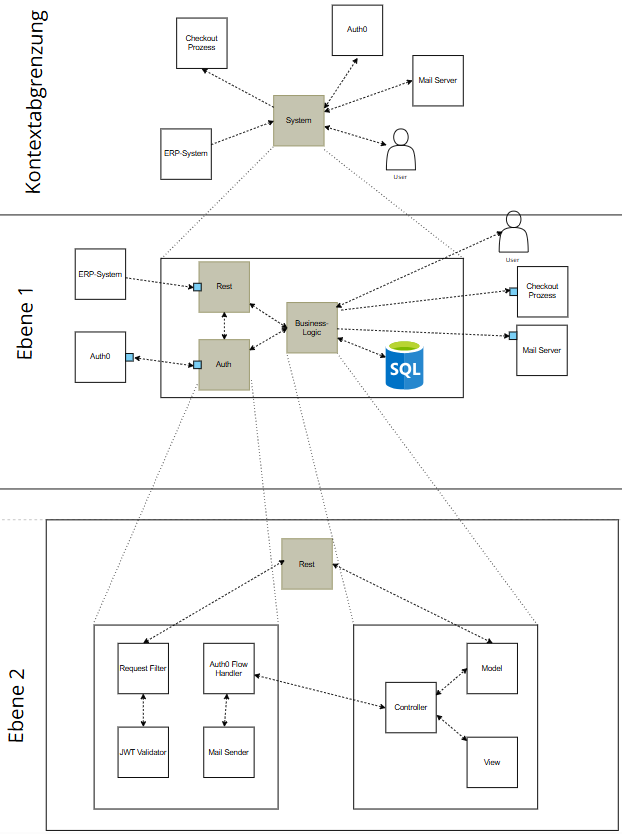
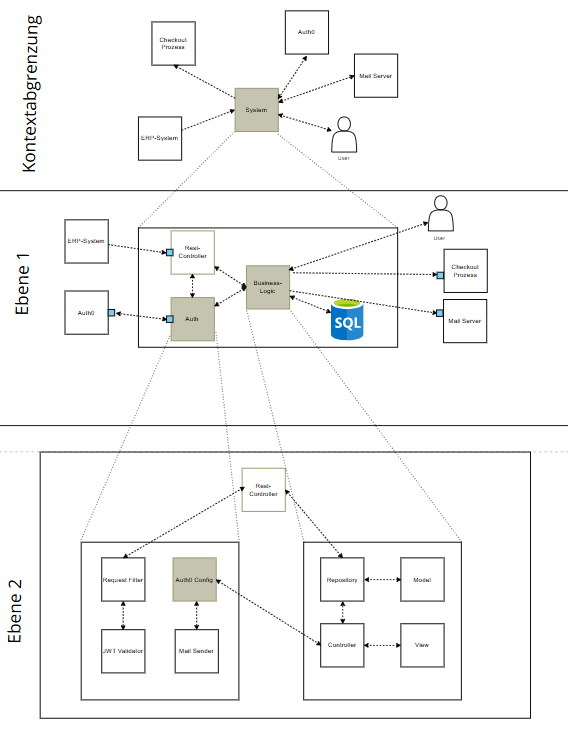
update documentation

diff --git a/arc42/documentation.tex b/arc42/documentation.tex
@@ -1,3 +1,4 @@
+
 % Options for packages loaded elsewhere
 \PassOptionsToPackage{unicode}{hyperref}
 \PassOptionsToPackage{hyphens}{url}
@@ -70,21 +71,26 @@
 \ifLuaTeX
   \usepackage{selnolig}  % disable illegal ligatures
 \fi
-\usepackage{fullpage} 
+\usepackage{fullpage}
 \usepackage{caption}
 \usepackage{float}
+
 
 \title{JEE Webshop Dokumentation}
 \author{Luca Malisan}
 \date{2025}
 
+
 \begin{document}
 \maketitle
 
+
 \section{}
+
 
 \hypertarget{section-introduction-and-goals}{%
 \section{Einführung und Ziele}\label{section-introduction-and-goals}}
+
 
 \hypertarget{_aufgabenstellung}{%
 \subsection{Aufgabenstellung}\label{_aufgabenstellung}}
@@ -97,141 +103,195 @@ Bei dem zu entwickelnden System handelt es sich um einen Webshop. Dieser besteht
 \item R: Rest-API zur Anbindung externer Systeme
 \end{itemize}
 
+
 Im Produktkatalog müssen Einträge per Volltextsuche gefunden werden können (K1). Zudem muss die Menge der Resultate nach Haupt- und Subkategorie eingeschränkt werden können (K2). Jeder Eintrag in der Liste muss Artikelbild, Titel, Preis, Rabatt und Verfügbarkeit anzeigen (K3). Pro Seite muss die Anzahl Einträge limitiert werden, Navigation zwischen den Seiten muss möglich sein (K4). Durch Klick auf einen Eintrag muss die Detailseite geöffnet werden. (K5)  \\ \\
 Auf der Detailansicht müssen zusätzlich zum Listeneintrag alle anderen Bilder und die Beschreibung sowie die verfügbare Anzahl angezeigt werden (D1). Zudem muss ein Button angezeigt werden, um den Artikel zum Warenkorb zu hinzufügen. Die Anzahl muss hierbei einstellbar sein (D2). \\ \\
 Der Warenkorb muss einen Überblick über alle hinzugefügten Artikel bieten (W1). Die Anzahl jedes Artikels muss angepasst werden können bzw. Artikel müssen entfernt werden können (W2). Der Gesamtpreis mit und ohne Mwst. sowie Rabatte müssen ebenfalls angezeigt werden (W3). \\ \\
 Benutzer müssen über einen Login-Button auf die Login-Page gelangen (L1). Unautorisierte Benutzer können alle Artikel ansehen, um etwas zum Warenkorb hinzuzufügen wird aber ein Login verlangt (L2). Das Login muss dabei in einem separaten Login-Formular stattfinden (L3). Die eingegebene E-Mail muss durch eine Bestätigungsmail validiert werden (L4). \\ \\
 Für das Hinzufügen, Updaten und Löschen von Artikeln und Kategorien muss eine REST-API zur Verfügung gestellt werden (R1). Diese darf nur von authentifizierten Maschinen angesteuert werden (R2).
 
+
 \hypertarget{_qualit_tsziele}{%
 \subsection{Qualitätsziele}\label{_qualit_tsziele}}
 
-Für eine gute Usability muss der Webshop in Tests mit Testkunden mindestens 90\% Zufriedenheit erreichen. Um eine optimale Performance zu garantieren, darf jede Operation im Webshop (Website laden, Artikel zum Warenkorb hinzufügen, ...) maximal 500ms dauern. Zudem müssen alle Methoden, die Business-Logik enthalten, mit mindestens einem Unit-Test abgesichert werden. \\ \\
-Unautorisierte Zugriffe müssen verhindert werden. Sowohl der Code als auch die verwendeten Dependencies dürfen keine Sicherheitslücken aufweisen. Für die Verständlichkeit des Codes müssen sämtliche Methoden und REST-Schnittstellen dokumentiert sein. Bei den redundanten Daten im Webshop, die aus angebundenen Systemen stammen, muss der Ursprung eindeutig nachvollziehbar sein.  
+
+\begin{itemize}
+\item Für eine gute Usability muss der Webshop spätestens zwei Wochen vor einem neuen Versionrelease in Usability-Tests mit Testkunden mindestens 90\% Zufriedenheit erreichen
+\item Um eine optimale Performance zu garantieren, darf jede Operation im Webshop (Website laden, Artikel zum Warenkorb hinzufügen, ...) maximal 500ms dauern, sofern die CPU-Auslastung unter 90\% liegt.
+\item Die Applikation muss mindestens 99.9\% der Zeit vollständig verfügbar sein.
+\item Um Partitionstoleranz zwischen den Komponenten zu gewährleisten, Innerhalb eines Monitoring-Zeitraums von 7 Tagen dürfen max. 0.1\% der Exceptions zu einem Absturz führen.
+\item  Für die fachliche Korrektheit müssen alle Methoden, die Business-Logik bzw. Berechnungen durchführen, mit mindestens fünf Unit-Tests abgesichert werden. Generell werden mindestens 80\% Testabdeckung angestrebt.
+\item Sämtliche der verwendeten Dependencies dürfen keine bekannten / dokumentierten Sicherheitslücken aufweisen. Vor jedem Versionsrelease muss deshalb eine solche Sicherheitsprüfung durchgeführt werden.
+\item  Für die Verständlichkeit des Codes müssen sämtliche Methoden und REST-Schnittstellen über Javadoc korrekt dokumentiert sein.
+\item Bei den redundanten Daten im Webshop, die aus angebundenen Systemen stammen, muss deren Ursprung bei der Speicherung in der Datenbank als Metadaten angegeben werden.
+\end{itemize}
+
 
 \subsection{Vision}
-Mit dem Webshop soll eine Lösung vermarktet werden, die eigenständig und technologieunabhängig betrieben werden kann. Durch die einfache Wartbarkeit und hohe Anpassbarkeit können Kundenprojekte vergleichsweise günstig umgesetzt werden. Durch die Verwendung einer eigenen Datenbank lässt es sich zudem nahtlos in bestehende Umgebungen inregrieren. Dadurch bildet das Produkt eine sichere, universelle Standardlösung für Unternehmen aller Art und Grösse.
+Unsere Vision basiert auf einem Webshop, der als technisch souveräne Lösung vermarktet wird, die eigenständig und technologieunabhängig betrieben werden kann. Dank der Verwendung einer eigenen Datenbank garantierern wir eine nahtlose Integration  in bestehende IT-Infrastrukturen, ohne dass eine Hinzunahme weiterer Produkte von Drittanbietern nötig ist. \\ \\
+Der Webshop kommt mit einer kleinen Anzahl von Abhängigkeiten aus, womit Wartungen mit maximaler Effizienz durchgeführt werden können. Zudem werden so der Anpassbarkeit keine Grenzen gesetzt, kein Kundenwunsch ist uns zu komplex. Diese Kombination erlaubt uns, auch hochspezialisierte Kundenprojekte zu attraktiven Konditionen umzusetzen. Damit weitet sich unsere Marktzielgruppe auf Unternehmen aller Art und Grösse aus - sei es ein Startup, ein traditionelles Familienunternehmen oder ein Industriekonzern.
+Durch eine hohe Quantität durchgeführter Projekte wird unsere Lösung regelmässig validiert. Die hohe Anzahl Testimonials gibt potentiellen Neukunden ein Sicherheitsgefühl und dient als Vertrauensbeweis. \\ \\
+In der heutigen Welt werden Systeme technisch immer komplexer und richten sich in erster Linie nach den aktuellsten Technologietrends. Hierbei werden allzu oft die tatsächlichen Kundenanforderungen missachtet. Oft zahlen Unternehmen hohe Preise für Funktionen, die sie gar nicht brauchen. Mit unserem minimalistischen und flexiblen Ansatz berufen wir uns auf traditionelle, fundierte Werte der Software-Entwicklung. Bei uns steht der Kunde im Fokus, nicht die Tech-Industrie.
+
+
+
 
 \hypertarget{section-context-and-scope}{%
 \section{Kontextabgrenzung}\label{section-context-and-scope}}
 
+
 \begin{figure}[H]
 \centering
-\includegraphics[width=300pt]{arc42/images/Bild001868.png}
+\includegraphics[width=300pt]{images/Bild001868.png}
 \caption{Technischer Kontext}
 \end{figure}
+
 
 \hypertarget{section-solution-strategy}{%
 \section{Lösungsstrategie}\label{section-solution-strategy}}
 
+
 \textbf{Inhalt}
+
 
 Für die Entwicklung des Systems wurden die folgenden zentralen Entscheidungen getroffen:
 
+
 \begin{itemize}
 \item Da das Projekt aus Sicht der Funktionalität relativ schlank ist, soll die Projektgrösse auf das nötige Minimum reduziert werden. So kann eine niedrige Komplexität und eine hohe Performance erreicht werden.
-\item Um die korrekte Funktionalität der Applikation sicherzustellen, muss die Business-Logik nach jeder Änderung getestet werden.  
-\item Um Sicherheitslücken zu verhindern und den Datenschutz einzuhalten, darf es zu keinen unautorisierten Zugriffen auf Daten kommen. Benutzer dürfen nur auf öffentliche und ihre eigenen Daten zugreifen, Änderungen an den Stammdaten nur durch berechtigte Applikationen erfolgen.  
-\item Login- und Checkout-Prozess des Webshops sind hinsichtlich Datenschutz und Sicherheit am kritischsten, weshalb diese an eine externe Software delegiert wird. Es gibt hierfür bereits umfangreiche, standardisierte Lösungen.  
+\item Um die korrekte Funktionalität der Applikation sicherzustellen, muss die Business-Logik nach jeder Änderung getestet werden.
+\item Um Sicherheitslücken zu verhindern und den Datenschutz einzuhalten, müssen Zugriffe auf Daten zwingend autorisiert werden. Benutzer dürfen nur auf öffentliche und ihre eigenen Daten zugreifen, Änderungen an den Stammdaten müssen durch berechtigte Applikationen erfolgen.
+\item Login- und Checkout-Prozess des Webshops sind hinsichtlich Datenschutz und Sicherheit am kritischsten, weshalb diese an eine externe Software delegiert wird. Es gibt hierfür bereits umfangreiche, standardisierte Lösungen.
 \end{itemize}
 
+
+\newpage
 \hypertarget{section-building-block-view}{%
 \section{Bausteinsicht}\label{section-building-block-view}}
 
+
 Das System besteht aus den folgenden physischen und logischen Komponenten:
+
 
 \begin{figure}[H]
 \centering
-\includegraphics[width=400pt]{arc42/images/Bild001869.png}
+\includegraphics[width=300pt]{images/Bild001869.png}
 \caption{Systemaufbau}
 \end{figure}
 
+
 \subsection{Kontextabgrenzung}
 \begin{itemize}
-\item ERP-System: Im ERP-System werden die Artikeldaten und Kategorien verwaltet. Die Daten werden regelmässig mit dem Webshop synchronisiert. 
-\item Checkout Prozess: Der Kunde wird vom Webshop aus auf das Checkout-System weitergeleitet
-\item Auth0: Der Kunde wird vom Webshop auf den Login-Screen von Auth0 weitergeleitet. Nach erfolgreicher Eingabe seiner Daten gelangt er wieder zurück und die Daten werden verarbeitet
-\item Der Benutzer interagiert mit dem GUI des Webshops
+\item ERP-System: Im ERP-System werden die Artikeldaten und Kategorien verwaltet. Die Daten werden bei Änderungen in den Webshop propagiert, um die Konsistenz der Daten sicherzustellen.
+\item Checkout Prozess: Der Kunde wird vom Webshop aus auf das Checkout-System weitergeleitet, um seine Bestellung abzuschliessen.
+\item Auth0: Der Kunde wird vom Webshop auf den Login-Screen von Auth0 weitergeleitet. Nach erfolgreicher Eingabe seiner Daten gelangt er wieder zurück und die Daten werden verarbeitet.
+\item Der Benutzer interagiert mit dem GUI des Webshops, dieser verarbeitet die Eingaben und aktualisiert die Darstellung entsprechend
 \end{itemize}
+
 
 \subsection{Ebene 1}
 \begin{itemize}
-\item Rest-Komponente: REST-Schnittstelle zur Synchronisation der Datenbasis mit angebundenen Systemen
-\item Auth-Komponente: Sicherstellung autorisierter Zugriffe
-\item Business-Logic-Komponente: Setzt die eigentliche Funktion des Webshops um
+\item Rest-Komponente: Um Daten aus angebundenen Systemen wie dem ERP-Software zu erhalten, stellt der Webshop eine REST-Schnittstelle bereit. Darüber können Änderungen an den Daten zu Artikeln und Kategorien durchgeführt werden.
+\item Auth-Komponente: Diese Komponente kümmert sich um die Authentifizierung und Autorisierung der Zugriffe auf den Webshop und die REST-API.
+\item Business-Logic-Komponente: Dort wird die eigentliche Funktionalität des Webshops umgesetzt. Die Komponente verarbeitet Benutzereingaben und setzt die Befehle um. Diese bestehen im Wesentlichen aus Änderungen und Darstellungen von Daten im Webshop.
 \end{itemize}
+
 
 \subsection{Ebene 2}
 \begin{itemize}
-\item Request-Filter: überprüft die Authentifizierung bei Zugriff auf REST-Schnittstellen
-\item JWT-Validator: validiert JWT
-\item Auth0 Flow Handler: koordiniert die nötigen Aktionen für das Auth0 Login
-\item Mail Sender: erstellt ein Bestätigungsmail und sendet es ab
-\item Model - View - Controller: Umsetzung des MVC Patterns
+\item Request-Filter: Dieser überprüft jeden einzelnen Requeset auf die REST-Schnittstellen und stellt sicher, dass der Zugriff autorisiert erfolgt. Ist dies nicht der Fall, wird eine entsprechende Fehlerbehandlung umgesetzt.
+\item JWT-Validator: Dabei handelt es sich um eine Hilfsklasse, um sicherzustellen, dass ein gegebenes JWT eine valide Struktur besitzt und noch gültig ist.
+\item Auth0 Flow Handler: Diese Klasse dient als Orchestrator, sie koordiniert die nötigen Aktionen um den ganzen Auth0 Login Flow korrekt umzusetzen.
+\item Auth0 Config: Diese Komponente besteht aus diversen Hilfsklassen, um Daten zwischenzuspeichern und den Auth0 Flow abbilden zu können.
+\item Mail Sender: Dort wird die Logik gekapselt, um ein Bestätigungsmail zu erstellen und an den User zu senden.
+\item Model - View - Controller: Um die Business-Logik umzusetzen, wird das MVC-Pattern verwendet. Die Struktur der HTML-Seite wird durch die View definiert. Durch klar definierte Listener werden bei Aktionen des Benutzers Events ausgeführt, die vom Controller behandelt werden. Dieser verwaltet einerseits temporäre Variablen, aber koordiniert auch das Rendern der korrekten Views. Zudem hat er Zugriff auf die Datenbank mithilfe von Repositories, die dazu dedizierte Methoden anbieten. Änderungen an der Datenbank werden auf Model-Klassen umgesetzt, die die Tabellen im Code abbilden.
 \end{itemize}
 
-\section{Datenbankmodell}
-\begin{figure}[H]
-\centering
-\includegraphics[width=300pt]{db/db_model.png}
-\caption{ERD Diagramm der Datenbank}
-\end{figure}
+
+
 
 \hypertarget{section-runtime-view}{%
 \section{Laufzeitsicht}\label{section-runtime-view}}
 
+
 \hypertarget{__emphasis_bezeichnung_laufzeitszenario_1_emphasis}{%
 \subsection{Login Flow}\label{__emphasis_bezeichnung_laufzeitszenario_1_emphasis}}
 
+
 \begin{figure}[H]
 \centering
-\includegraphics[width=300pt]{arc42/images/Bild001870.png}
+\includegraphics[width=300pt]{images/Bild001870.png}
 \caption{Login-Flow Sequenzdiagramm}
 \end{figure}
+
 
 \hypertarget{__emphasis_bezeichnung_laufzeitszenario_2_emphasis}{%
 \subsection{REST-API Call}\label{__emphasis_bezeichnung_laufzeitszenario_2_emphasis}}
 
+
 \begin{figure}[H]
 \centering
-\includegraphics[width=400pt]{arc42/images/Bild001873.png}
+\includegraphics[width=400pt]{images/Bild001873.png}
 \caption{REST-API Call Sequenzdiagramm}
 \end{figure}
+
 
 \hypertarget{__emphasis_bezeichnung_laufzeitszenario_n_emphasis}{%
 \subsection{Rendern der Artikeldetail Ansicht}\label{__emphasis_bezeichnung_laufzeitszenario_n_emphasis}}
 
+
 \begin{figure}[H]
 \centering
-\includegraphics[width=400pt]{arc42/images/Bild001875.png}
+\includegraphics[width=400pt]{images/Bild001875.png}
 \caption{Sequenzdiagramm Artikeldetail Ansicht}
 \end{figure}
 
+
+\section{Datenbankmodell}
+\begin{figure}[H]
+\centering
+\includegraphics[width=200pt]{images/Picture1.png}
+\caption{ERM-Diagramm der Datenbank}
+\end{figure}
+
+
 \pagebreak
+
 
 \hypertarget{section-deployment-view}{%
 \section{Verteilungssicht}\label{section-deployment-view}}
 
+
 \begin{figure}[H]
-\centering\includegraphics[width=200pt]{arc42/images/Bild001876.png}
-\caption{Verteilungsdiagramm Webshop}
-\end{figure}
+\centering\includegraphics[width=300pt]{images/Bild001876.png}
+\caption{Verteilungsdiagramm produktive Installation}
+\end{figure} $ $\\
+Die Architektur besteht aus zwei Servern dritter Parteien sowie zwei eigenen Servern. Der Versand der Bestätigungsmail findet produktiv über einen Email Service Provider statt. Dazu wird auf die REST-API des Anbieters zugegriffen, die auf einem externen Server zusammen mit dem SMTP-Relay gehostet wird. Das Login funktioniert wird über Auth0 umgesetzt, das ebenfalls auf einem Third-Party-Server gehostet wird. Der Webshop leitet über einen HTTP Redirect auf die zugehörige URL weiter. \\ \\
+Die Artikel- und Kategoriendaten stammen aus dem ERP-System, das auf einem internen Kundenserver gehostet wird und auf die REST-API des Webshops zugreift. Der Dienst des Checkout-Prozesses ist eine Third-Party Software, die ebenfalls auf dem Kundenserver gehostet und über einen Reverse-Proxy wie NGINX zugänglich gemacht wird. So kann der Webshop auf die entsprechende URL redirecten.  \\ \\
+Der Webshop selbst wird auf der Google Cloud mithilfe eines Glassfish Containers betrieben. Die DNS-Verwaltung findet hierbei über Cloud DNS statt. Für die Datenbank wird Cloud SQL mit einer Postgres-Datenbank verwendet. Der Zugriff auf den Webshop erfolgt über den Browser.
+
 
 \hypertarget{section-concepts}{%
 \section{Querschnittliche Konzepte}\label{section-concepts}}
 
+
 \subsection{Architektur \& Patterns}
 \begin{itemize}
-\item Das Projekt wird mit reinem Jakarta EE und Java Server Faces umgesetzt. Sämtliche verwendete Dependencies müssen framework-unabhängig sein. 
-\item Aufgrund der kleinen Grösse des System wird ein klassischer monolithischer Ansatz gewählt, um die Komplexität niedrig zu halten und Ladezeiten zu minimieren. 
-\item Gemäss dem Jakarta-EE Standard wird eine Three-Tier-Architektur aus Datenbank, Backend und Frontend gewählt. 
+\item Das Projekt wird mit reinem Jakarta EE und Java Server Faces umgesetzt. Sämtliche verwendete Dependencies müssen framework-unabhängig sein.
+\item Aufgrund der kleinen Grösse des System wird ein klassischer monolithischer Ansatz gewählt, um die Komplexität niedrig zu halten und Ladezeiten zu minimieren.
+\item Gemäss dem Jakarta-EE Standard wird eine Three-Tier-Architektur aus Datenbank, Backend und Frontend gewählt.
 \item Die Daten im Frontend werden nach dem MVC-Pattern berechnet und angezeigt
 \end{itemize}
 
-\subsection{Entwicklung}
+
+\subsection{Entwicklung und Testing}
 \begin{itemize}
-\item Mit Mockito und JUnit werden die Methoden mit Business-Logik durch Unit-Tests abgesichert. 
+\item Mit Mockito und JUnit werden die Methoden mit Business-Logik durch Unit-Tests abgesichert. Die Resultate werden mithilfe von Jacoco Reports dokumentiert. Bei jedem Builden der Applikation werden die Tests automatisiert ausgeführt.
+\item Zur Dokumentation des Codes wird JavaDoc verwendet, die REST-Schnittstellen werden mit Swagger dokumentiert. Aus der Spezifikation wird mittels Github Actions automatisch eine graphische Ansicht gebaut.
+\item Vor jedem Versionsrelease wird ein manueller, funktionaler Regressionstest durchgeführt, um das korrekte Verhalten für den User sicherzustellen. Zudem wird bei neuen Major-Releases ein Usability-Tests durchgeführt, um eine zufriedenstellende UX sicherstellen zu können.
+\item Zur Beschleunigung der Entwicklung werden Hilfs-Libraries wie Lombok eingesetzt
 \end{itemize}
+
 
 \subsection{Sicherheit}
 \begin{itemize}
@@ -239,39 +299,46 @@ Das System besteht aus den folgenden physischen und logischen Komponenten:
 \item Da Benutzer nur auf ihre eigenen Daten zugreifen können, müssen die Daten des Warenkorbs eindeutig einem Benutzer zugeordnet werden können. Deshalb wird dafür ein Login verlangt.
 \end{itemize}
 
+
 \subsection{Deployment}
 \begin{itemize}
-\item Als Build-Tool wird Maven verwendet. Damit wird die Applikation als JAR-File gebaut. 
-\item Die Applikation läuft als Container auf der Google Cloud. Als Webserver kommt Glassfish zum Einsatz, der das JAR-File als Web-Anwendung zur Verfügung stellt. 
+\item Als Build-Tool wird Maven verwendet. Damit wird die Applikation als JAR-File gebaut.
+\item Die Applikation läuft als Container auf der Google Cloud. Als Webserver kommt Glassfish zum Einsatz, der das JAR-File als Web-Anwendung zur Verfügung stellt.
 \item Als Datenbank wird PostgreSQL verwendet, die in der CloudSQL-Umgebung läuft.
 \end{itemize}
+
 
 \hypertarget{section-quality-scenarios}{%
 \section{Qualitätsanforderungen}\label{section-quality-scenarios}}
 
+
 \hypertarget{_qualit_tsbaum}{%
 \subsection{Qualitätsbaum}\label{_qualit_tsbaum}}
 
+
 \begin{figure}[H]
 \centering
-\includegraphics[width=300pt]{arc42/images/Bild001882.png}
+\includegraphics[width=300pt]{images/Bild001882.png}
 \caption{}
 \end{figure}
+
 
 \hypertarget{_qualit_tsszenarien}{%
 \subsection{Qualitätsszenarien}\label{_qualit_tsszenarien}}
 \begin{itemize}
-\item Der Kunde führt eine beliebige Operation im Webshop aus. Die Wartezeit, bis die Operation vollständig abgeschlossen ist, darf maximal 500ms betragen. 
-\item Ein Benutzer versucht, manuell über die REST-API des Webshops Daten zu verändern. Die Anfrage muss in jedem Fall abgelehnt werden und die Aktion darf nicht ausgeführt werden.
-\item Ein Benutzer versucht, auf die Warenkorbdaten eines anderen Benutzers zuzugreifen. Dies darf ohne Logindaten des entsprechenden Benutzers nicht möglich sein. 
-\item Ein Entwickler muss eine Änderung an der Navigation zwischen den Artikelseiten umsetzen. Durch die ausführliche Dokumentation geschieht hat er eine niedrige Lernkurve und implementiert die Anforderung korrekt. 
-\item Eine neue Quelle für Stammdaten muss an den Webshop angeschlossen werden. Durch die ausführliche Dokumentation der API kann dies mit niedriger Lernkurve umgesetzt werden.
-\item Ein unerfahrener Mitarbeiter setzt eine Änderung am Webshop um und führt dabei einen Bug ein. Die entsprechenden Unit-Tests schlagen fehl und sorgen dafür, dass der fehlerhafte Code nicht in der Produktion landet. 
+\item Der Kunde führt eine beliebige Operation im Webshop aus. Die Wartezeit, bis die Operation vollständig abgeschlossen ist, darf bei Normallast ($\leq$ 90\% CPU-Auslastung) maximal 500ms betragen.
+\item Ein Benutzer versucht, manuell über die REST-API des Webshops Daten zu verändern. Die Anfrage muss abgelehnt werden und die Aktion darf nicht ausgeführt werden.
+\item Ein Benutzer versucht, auf die Warenkorbdaten eines anderen Benutzers zuzugreifen. Dies darf ohne Logindaten des entsprechenden Benutzers nicht möglich sein.
+\item Ein Entwickler muss eine Änderung an der Navigation zwischen den Artikelseiten umsetzen. Durch die ausführliche Dokumentation hat er eine niedrige Lernkurve und implementiert die Anforderung in min. 50\% der Fälle korrekt, sodass keine nachträglichen Bugfixes mehr nötig sind.
+\item Eine neue Quelle für Stammdaten muss an den Webshop angeschlossen werden. Durch die ausführliche Dokumentation der API kann dies in min. 90\% der Fälle durch die Entwickler der Quelle selbstständig umgesetzt werden, ohne Unterstützung der Webshop-Entwickler.
+\item Ein unerfahrener Mitarbeiter setzt eine Änderung am Webshop um und führt dabei einen Bug ein. Die entsprechenden Unit-Tests schlagen fehl und sorgen dafür, dass der fehlerhafte Code nicht in der Produktion landet. Pro neuer Version darf es max. einen kritischen Bug in der Produktion geben.
 \end{itemize}
+
 
 \hypertarget{section-technical-risks}{%
 \section{Risiken und technische
 Schulden}\label{section-technical-risks}}
+
 
 Folgende Risiken und technische Schulden existieren im Projekt, geordnet nach Priorität:
 \begin{itemize}
@@ -279,14 +346,30 @@ Folgende Risiken und technische Schulden existieren im Projekt, geordnet nach Pr
 \item Skalierbarer Maildienst: Aktuell verwendet der Webshop den normalen SMTP-Server von Gmail. Für einen flächendeckenden Einsatz sollte ein Email Service Provider wie MailJet eingesetzt werden.
 \item Verwendung von Frontend-Libraries: Aktuell ist das Frontend eher einfach gehalten und basiert auf standardisierten HTML-Elementen. In einer späteren Version kann das GUI durch den Einsatz von Frontend-Libraries modernisiert werden.
 \item Skalierung: Mit der Zunahme der Datenmengen und der gleichzeitigen Benutzer muss das Deployment Load Balancing unterstützen. Aktuell gibt es nur eine Instanz der Datenbank und Applikation.
+\item Aktuell lässt sich der Webshop nur lokal über Docker / Podman betreiben, ein Deployment auf Google Cloud muss noch umgesetzt werden. Dies ist notwendig, um die nötigen Werkzeuge zur Skalierung und Ausfallsicherheit zur Verfügung zu haben.
 \end{itemize}
 
-\section{Testing \& Abnahmekriterien}
-Die Business-Logik des Webshops wird mithilfe von Unit-Tests getestet. Für die REST-API wird ein Postman Script verwendet.
-Als Abnahmekriterium gilt, dass 100\% der Unit Tests erfolgreich sein müssen und alle Postman-Anfragen mit Status 200/201 erfolgen müssen
+
+\section{Abnahmekriterien}
+\begin{itemize}
+\item Vervollständigung der Funktionalität gem. technischer Schulden (vgl. techische Schulden)
+\item Alle Unit-Tests laufen erfolgreich durch
+\item Alle Abhängigkeiten haben die neuste kompatible Version
+\item Sämtliche Qualitätsanforderungen sind erfüllt (vgl. Qualitätsziele / Qualitätsanforderungen)
+\item Die Dokumentation ist aktualisiert und entspricht dem gegenwärtigen Stand
+\item Die Applikation kann erfolgreich auf Google Cloud deployed und mit einer eigenen Domain versehen werden.
+\end{itemize}
+
+
+\section{Weitere Erkenntnisse aus der Programmierung}
+Mit diesem Projekt konnte das Entwicklungsteam seine Fertigkeiten im Umgang mit der Entwicklung einer neuen Applikation von Grund auf verbessern. Zudem konnten erste Erfahrungen mit neuen Technologien wie Email Service Providern (ESP) und Jacoco gewinnen. Bei anderen Technologien konnte das Wissen aufgefrischt werden, beispielsweise mit Mockito, Auth0 und Swagger. Das Entwicklungsteam lernte so auch, selbstständig Technologientscheidungen zu treffen und mithilfe der Dokumentation effizient umzusetzen.  \\ \\
+Das Entwicklungsteam folgt bei der Entwicklung grundsätzlich streng den definierten Programmierrichtlinien. Durch die Standardisierung von Architektur und Package-Struktur konnte diese Applikation auf Basis eines älteren Projektes umgesetzt werden, das entsprechend angepasst und erweitert wurde. Damit lässt sich nachweisen, dass der zusätzliche Aufwand für die Erfüllung der Richtlinie sich an anderer Stelle auszahlt. \\ \\
+Durch die positiven Erfahrungen mit JUnit und Jacoco wurde die Programmierrichtlinien im Zuge dieses Projekts um obligatorische Unit-Tests erweitert. Zuvor war es den Entwicklern freigestellt, ob  zusätzlich zu manuellen Funktionstest auch automatisierte Unit-Tests eingesetzt wurden.
+
 
 \hypertarget{section-glossary}{%
 \section{Glossar}\label{section-glossary}}
+
 
 \begin{longtable}[]{@{}
   >{\raggedright\arraybackslash}p{(\columnwidth - 2\tabcolsep) * \real{0.3333}}
@@ -308,7 +391,10 @@ Checkout-Prozess & umfasst Eingabe von Lieferadresse und Zahlungsmethode \\ \\
 Login Callback & Bevor auf das Login-Formular von Auth0 umgeleitet wird, wird definiert, was ausgeführt werden soll, wenn der Request anschliessend wieder zurück auf den Webshop geht. Dies ist die Callback-Funktion. \\ \\
 Servlet-Route & Route, die verwendet werden, um Seiten oder deren Daten zu laden und anzuzeigen \\ \\
 Request Filter & ein Filter, der bei jedem Request überprüft, ob dieser zugelassaen werden soll \\ \\
+JWT & Eine verschlüsselte Zeichenkette, die die Authentifizierung und Autorisierung eines Benutzers bestätigt. \\ \\
 \bottomrule
 \end{longtable}
 
+
 \end{document}
+
